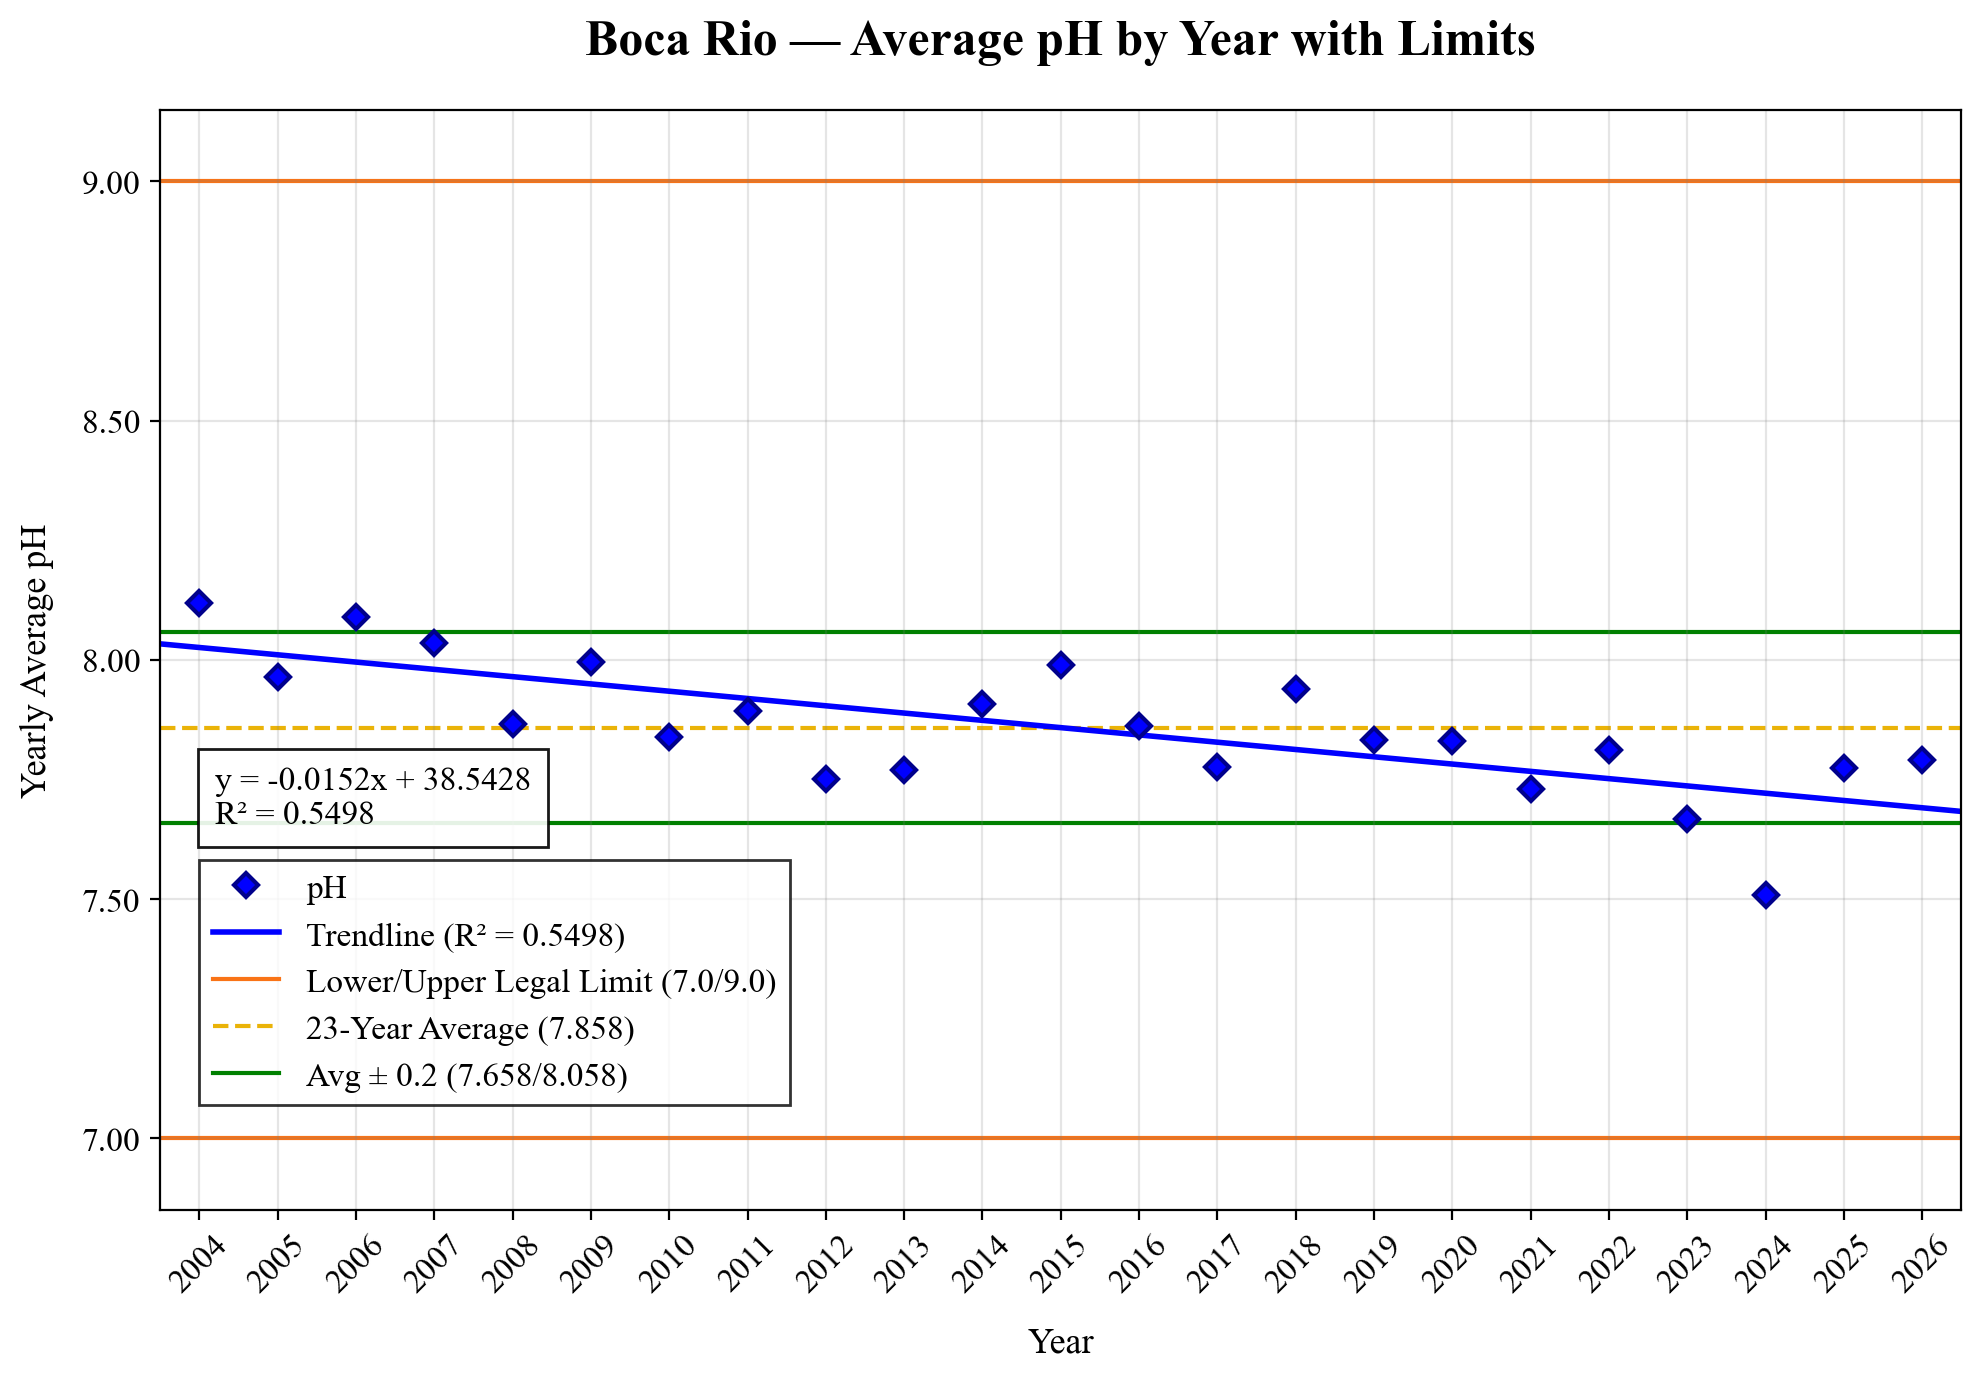
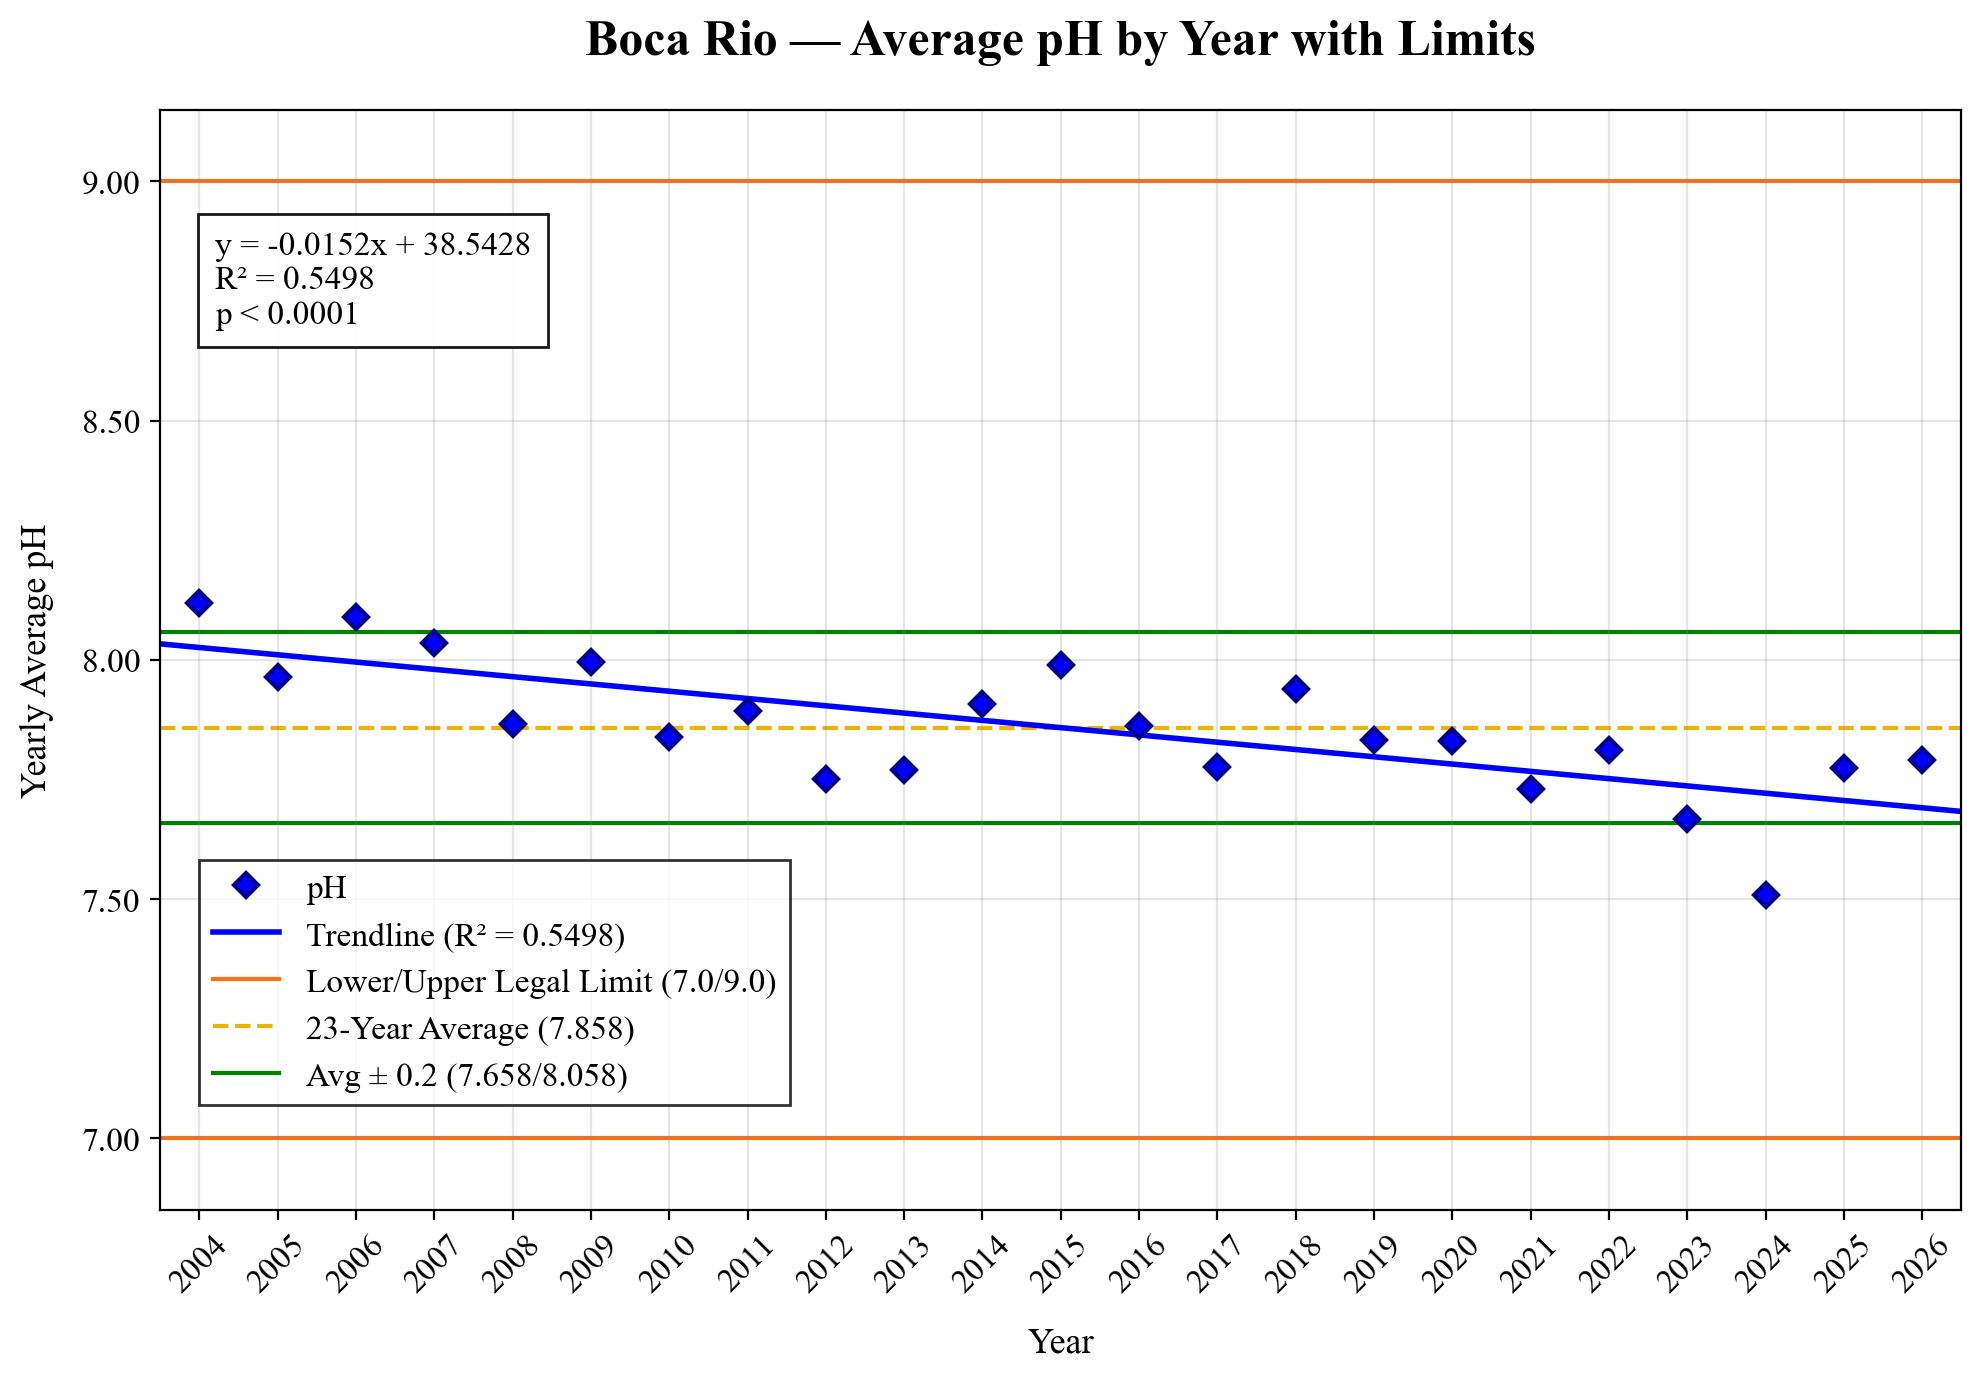
Update Boca Rio trend graph with proper limits and top-left balanced layout

Changed region(s): [[0.0924, 0.5297, 0.2771, 0.6232], [0.0924, 0.1558, 0.2771, 0.2493]]

diff --git a/app.js b/app.js
@@ -313,9 +313,9 @@ function handleMarkerClick(siteName, isState, stats) {
         ? "Statewide aggregated visualization suite."
         : "Station-specific visualization suite.";
         
-    trendGraph.src = `assets/${safeName}_trend.png?v=9`;
-    boxGraph.src = `assets/${safeName}_box.png?v=9`;
-    barGraph.src = `assets/${safeName}_bar.png?v=9`;
+    trendGraph.src = `assets/${safeName}_trend.png?v=10`;
+    boxGraph.src = `assets/${safeName}_box.png?v=10`;
+    barGraph.src = `assets/${safeName}_bar.png?v=10`;
     
     if (stats.equation && stats.r2 && stats.equation !== "N/A") {
         trendStats.innerHTML = `${stats.equation} &nbsp;&nbsp;|&nbsp;&nbsp; ${stats.r2} &nbsp;&nbsp;|&nbsp;&nbsp; ${stats.p}`;

diff --git a/index.html b/index.html
@@ -67,6 +67,6 @@
     <script src="https://unpkg.com/leaflet@1.9.4/dist/leaflet.js" integrity="sha256-20nQCchB9co0qIjJZRGuk2/Z9VM+kNiyxNV1lvTlZBo=" crossorigin=""></script>
     
     <!-- App Logic -->
-    <script src="app.js?v=22"></script>
+    <script src="app.js?v=23"></script>
 </body>
 </html>
